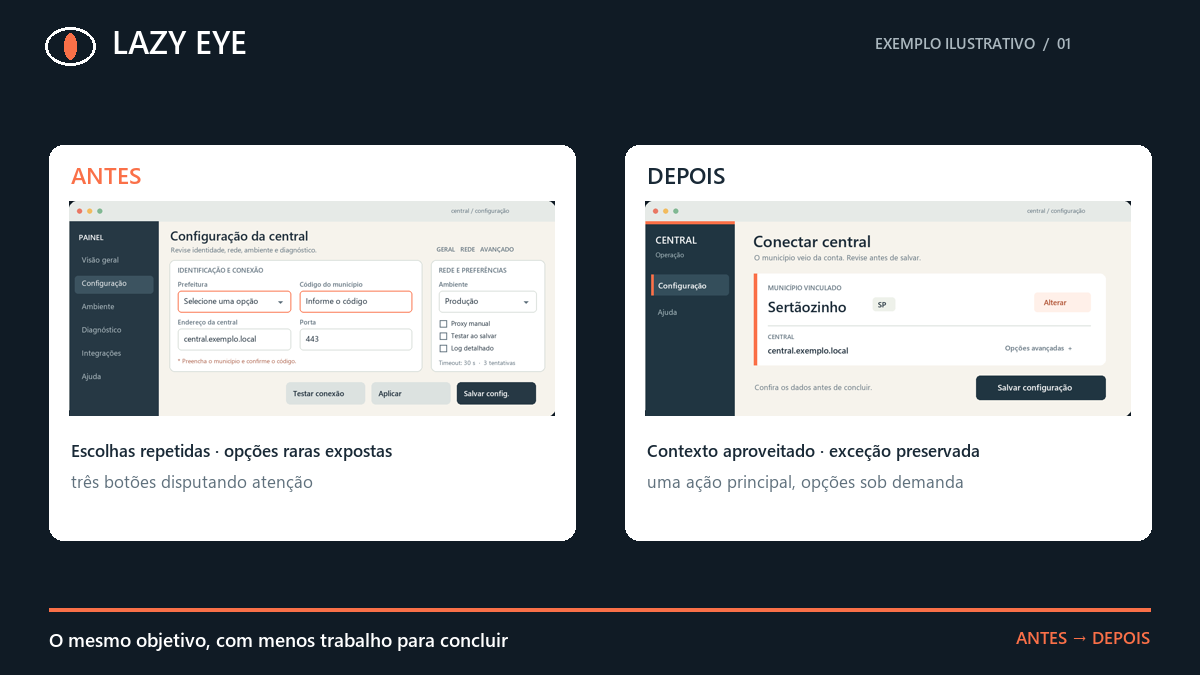
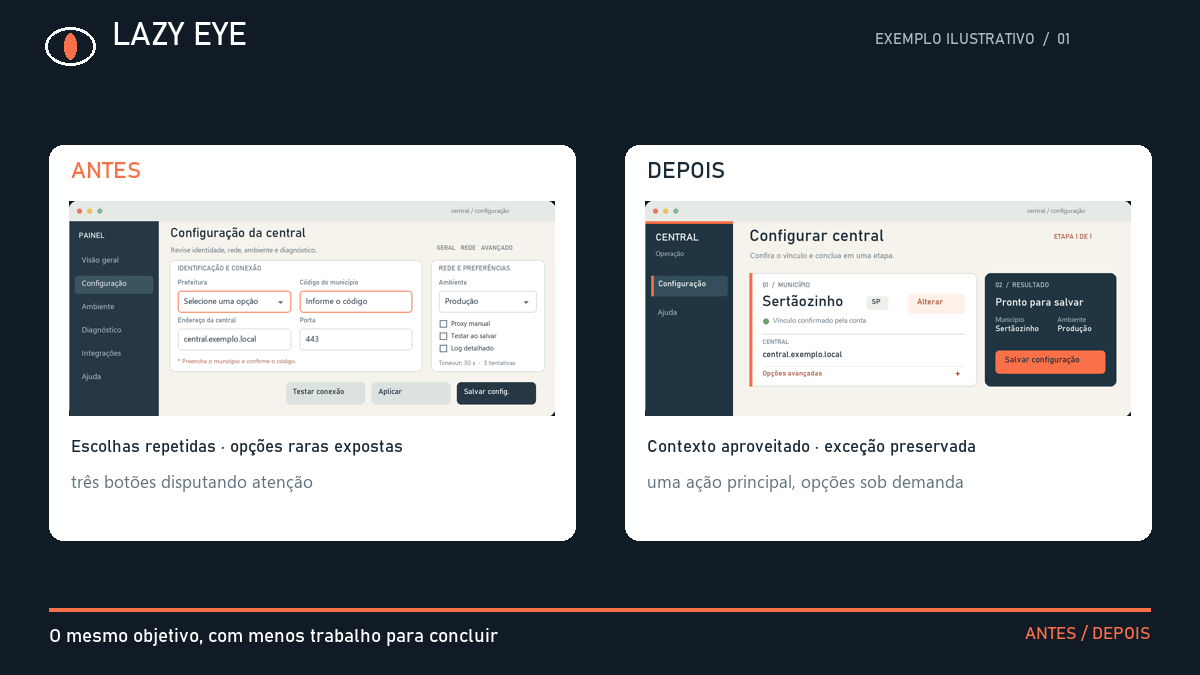
feat: mapeia trabalho e demonstra a simplificação completa

diff --git a/README.md b/README.md
@@ -4,10 +4,10 @@
 
 <picture>
   <source media="(prefers-reduced-motion: reduce)" srcset="./assets/lazy-eye-static.png">
-  <img src="./assets/lazy-eye-demo.gif" alt="Cenário simulado: uma tela de configuração com escolhas repetidas, opções raras e três botões é auditada pela Lazy Eye. Os achados A1 a A3 são apresentados para aprovação. Após a aprovação, o Impeccable refina a interface, que passa a mostrar o município da conta, opções avançadas sob demanda e uma ação principal. A animação termina com o antes e depois lado a lado." width="1200">
+  <img src="./assets/lazy-eye-demo.gif" alt="Cenário simulado: uma configuração de central exige procurar um código, repetir a prefeitura e escolher entre três botões. A Lazy Eye mapeia esse trabalho, apresenta os achados A1 a A3 e aguarda aprovação. Depois, o Impeccable refina a interface: o município vem da conta, a busca aparece somente para troca autorizada, há uma ação para salvar e a tela confirma o resultado. A animação termina com a comparação antes e depois." width="1200">
 </picture>
 
-*Cenário simulado de configuração de central: auditoria dos atritos, aprovação dos achados, refinamento com Impeccable e comparação final. A tela não é uma captura de produto real.*
+*Cenário simulado, não uma captura da Central CIGO: mapa do trabalho, auditoria, aprovação, refinamento visual, exceção autorizada e resultado confirmado.*
 
 Uma tela pode parecer simples e ainda obrigar alguém a procurar um código, repetir uma escolha, consultar o suporte ou descobrir que o botão **Concluído** não concluiu nada. A Lazy Eye percorre a tarefa inteira, encontra esse esforço e propõe uma mudança concreta. Ela mede o caminho até o resultado, não apenas a quantidade de cliques.
 
@@ -21,6 +21,10 @@ Funciona em telas, formulários, configuradores, instaladores, fluxos de CLI e t
 | Auditar tudo o que pode ser simplificado | Um inventário de achados com evidência, risco, confiança, antes/depois e IDs para aprovar todos ou escolher alguns. |
 
 A skill **apresenta a sugestão antes de alterar o fluxo** quando a melhoria está fora do pedido já autorizado. Numa auditoria profunda, só pede aprovação de implementação depois de examinar as evidências necessárias. Se faltarem tela, código ou outros dados essenciais, entrega um inventário preliminar e explica a lacuna.
+
+### O mapa do trabalho
+
+Antes de desenhar a solução, a Lazy Eye registra o caminho até um resultado verificável: ponto de partida → busca ou decisão → ação → confirmação → resultado. Compara o caminho atual com o proposto, incluindo a exceção e o trabalho que poderia migrar para o suporte. Na animação, isso significa tirar a consulta externa do fluxo comum, manter a troca de município quando autorizada e só declarar o fim depois que o salvamento for confirmado.
 
 ### Quando a tela também precisa de design premium
 

diff --git a/references/auditoria-profunda.md b/references/auditoria-profunda.md
@@ -9,12 +9,15 @@ Use este modo quando o usuário pedir para investigar uma tela ou tarefa inteira
 3. Levante atritos em design **e** função: hierarquia e agrupamento, linguagem, controles, escolhas, dados que poderiam ser preenchidos com segurança, etapas repetidas, espera, feedback, correção e retomada. Para cada atrito, percorra a escada do `SKILL.md`; verifique a causa no fluxo e no código antes de recomendar uma troca de componente ou automação.
 4. Verifique o impacto em outros papéis, integrações e dados. Uma simplificação que enfraquece segurança, acessibilidade ou regras de negócio, ou apenas empurra trabalho para suporte, não entra na proposta.
 
+Construa uma matriz curta de cobertura antes de chamar a auditoria de completa: início e fim verificável da tarefa; caminho comum, repetição e exceção relevante; estados de espera, erro e recuperação; fontes de dados e autorização das automações propostas. Marque o que foi observado, inferido ou não se aplica. Essa matriz evita que uma tela redesenhada esconda trabalho deslocado para outra etapa.
+
 Se a tela, o código ou outra evidência essencial não estiver acessível, produza apenas um inventário **preliminar**, indique exatamente a cobertura obtida e peça o material que falta. Continue a investigação possível, mas não chame as hipóteses de auditoria completa nem peça aprovação para implementar qualquer item, pacote ou “tudo” antes de fechar a cobertura.
 
 ## Montar o inventário
 
 - Registre cada problema independente uma vez. Una sintomas com a mesma causa, mas não misture causas distintas numa mudança genérica.
 - Para cada item acionável, informe **local e evidência**, **trabalho imposto à pessoa ou a outro papel**, **degrau e mudança proposta**, **caminho antes/depois em passos, decisões e consultas externas**, **custo ou risco**, **confiança**, **como verificar** e **o que refutaria o ganho esperado**. O antes/depois deve mostrar trabalho real poupado, sem inventar tempo ou métricas. Distinga achado confirmado por inspeção de hipótese que ainda exige verificação.
+- Agrupe os itens por dependência de resultado: o que reduz trabalho para chegar ao fim, o que torna a exceção utilizável e o que confirma que a tarefa terminou. Uma melhoria visual só entra quando ajuda uma dessas funções; não conte mudança cosmética como esforço poupado.
 - Ordene por benefício provável e dependências. Conte os itens encontrados; não invente oportunidades para preencher uma lista nem esconda as menores quando forem relevantes para o pedido.
 - Diferencie o que pode ser simplificado do que é complexidade necessária. Mudança de identidade visual, regra de negócio, permissão, tratamento de dados ou arquitetura exige destaque próprio; não a esconda num pacote de ajustes de UI.
 

diff --git a/SKILL.md b/SKILL.md
@@ -18,6 +18,8 @@ Use ao planejar ou revisar um fluxo humano, especialmente uma tela que poderia e
 3. Escolha o atrito com maior combinação de frequência, esforço e chance de erro. Fundamente-o no fluxo observado; se faltar um fato decisivo, formule a sugestão como hipótese e diga o que precisa ser conferido.
 4. Percorra a escada abaixo para o atrito encontrado. Separe problemas distintos em vez de empilhar mudanças numa proposta. Compare o trabalho poupado com o custo de aprender, manter e corrigir a solução; confira se o esforço não foi transferido para outro usuário, operador ou suporte. Se o ganho não for claro, não faça sugestão.
 
+Antes de desenhar a solução, escreva o **mapa do trabalho** em uma linha: `ponto de partida → busca ou decisão → ação → confirmação → resultado verificável`. Inclua o caminho de exceção quando ele mudar a recomendação. Compare o mapa atual com o proposto: quais buscas, decisões e retornos à tela desaparecem, e qual trabalho novo surge? Não use contagem de cliques ou uma captura bonita como prova de conclusão.
+
 ## Escada do esforço poupado
 
 Teste os degraus em ordem. Escolha o primeiro que resolve o objetivo com segurança em todos os caminhos relevantes. Se uma exceção ainda exigir ação humana, combine degraus sem devolver o trabalho desnecessário ao fluxo principal.
@@ -39,6 +41,7 @@ Se o trabalho incluir criar, redesenhar ou polir uma interface, leia [design pre
 - Apresente no máximo uma sugestão principal por vez: **atrito observado → mudança concreta → esforço poupado → custo ou limite**. Peça aprovação antes de implementar essa melhoria quando ela não fizer parte do pedido já autorizado. Continue partes independentes enquanto aguarda a resposta.
 - Se outro caminho alcançar melhor o objetivo do usuário com bem menos esforço, pode sugeri-lo. Não substitua silenciosamente a solução que ele pediu.
 - Depois da aprovação, implemente a menor mudança completa, seguindo o padrão do projeto, e verifique o caminho de uso, inclusive erro, teclado e preservação de dados quando aplicável.
+- Faça a pessoa chegar ao resultado verificável. Um botão que apenas fecha a tela ou uma mensagem de sucesso antes da operação terminar não encerra a tarefa.
 - Se a tarefa pedida já resolve o maior atrito, conclua sem acrescentar uma sugestão ornamental. Não repita a mesma proposta a cada etapa ou resposta.
 
 ## Limites
